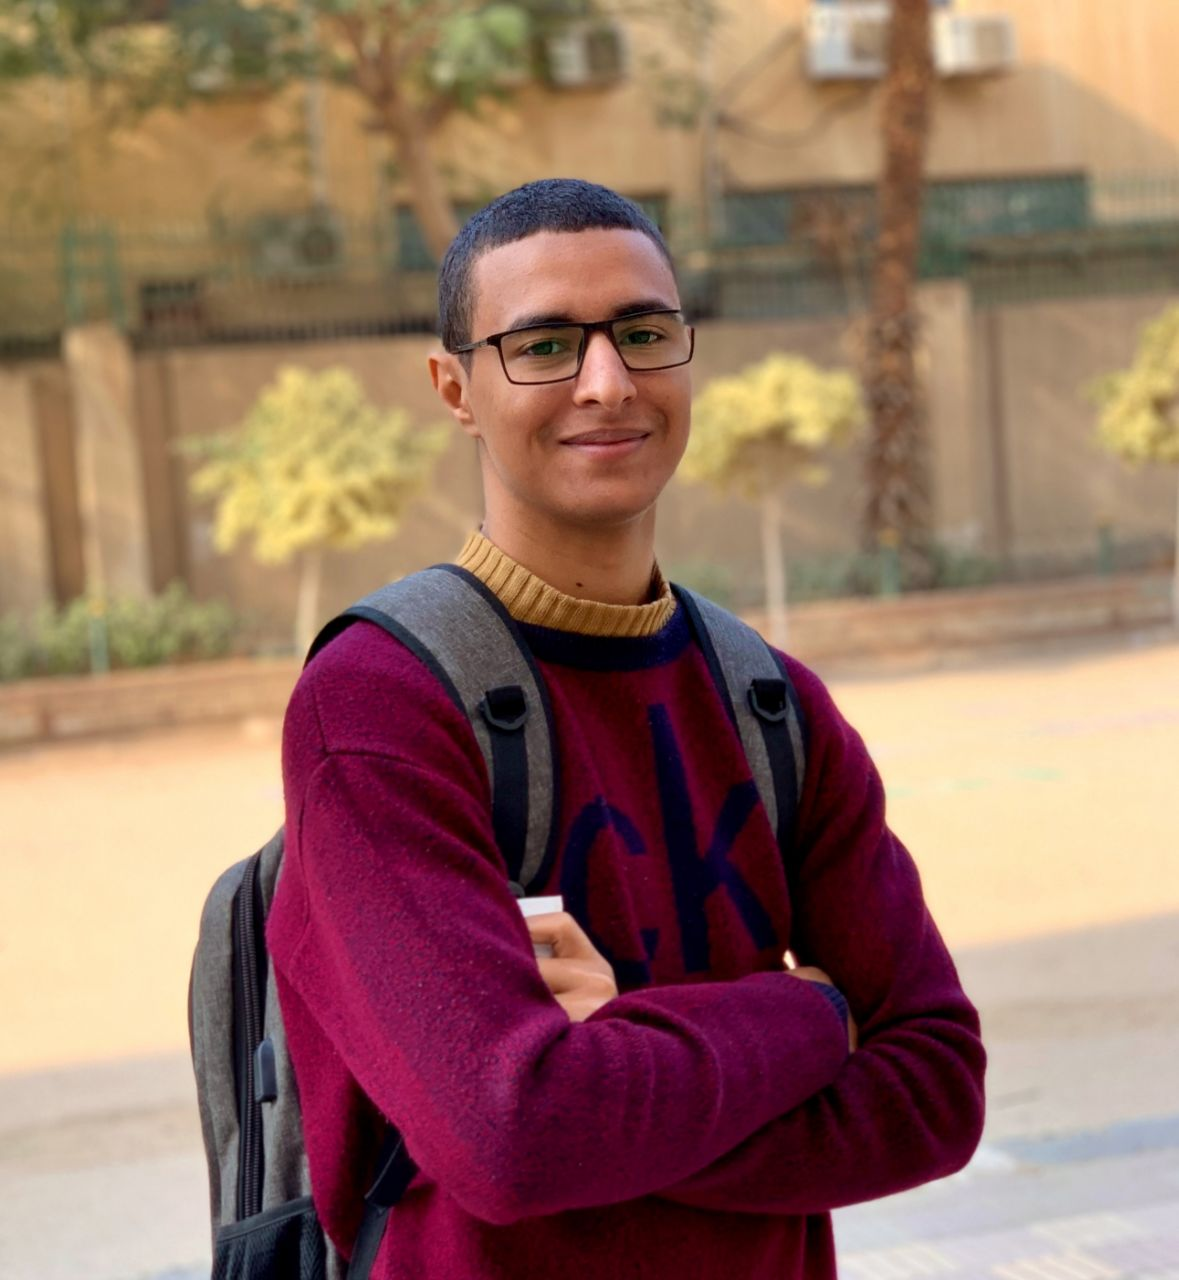
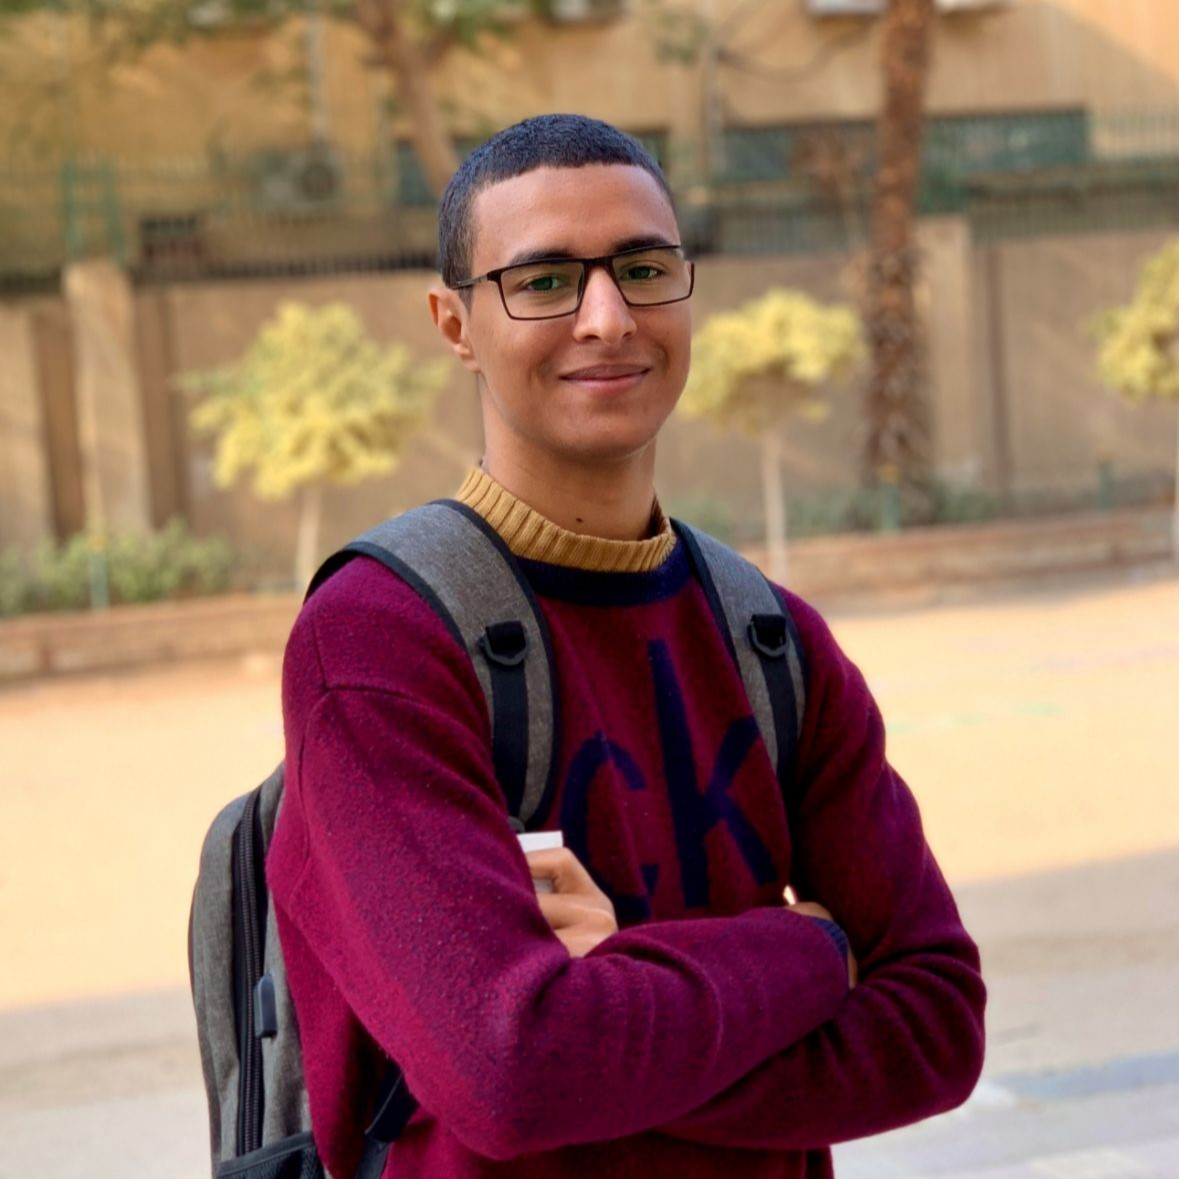
edit images

diff --git a/routers/portfolio.js b/routers/portfolio.js
@@ -47,7 +47,7 @@ portfolioRouter.get("/contactInfo", contactInfo);
 portfolioRouter.post("/editContactInfo", editContactInfo);
 portfolioRouter.get("/aboutApp", aboutApp);
 portfolioRouter.get("/frequentQuestions", frequentQuestions);
-portfolioRouter.get("/LegalInformation", LegalInformation);
+portfolioRouter.get("/legalInformation", LegalInformation);
 
 
 // exports
